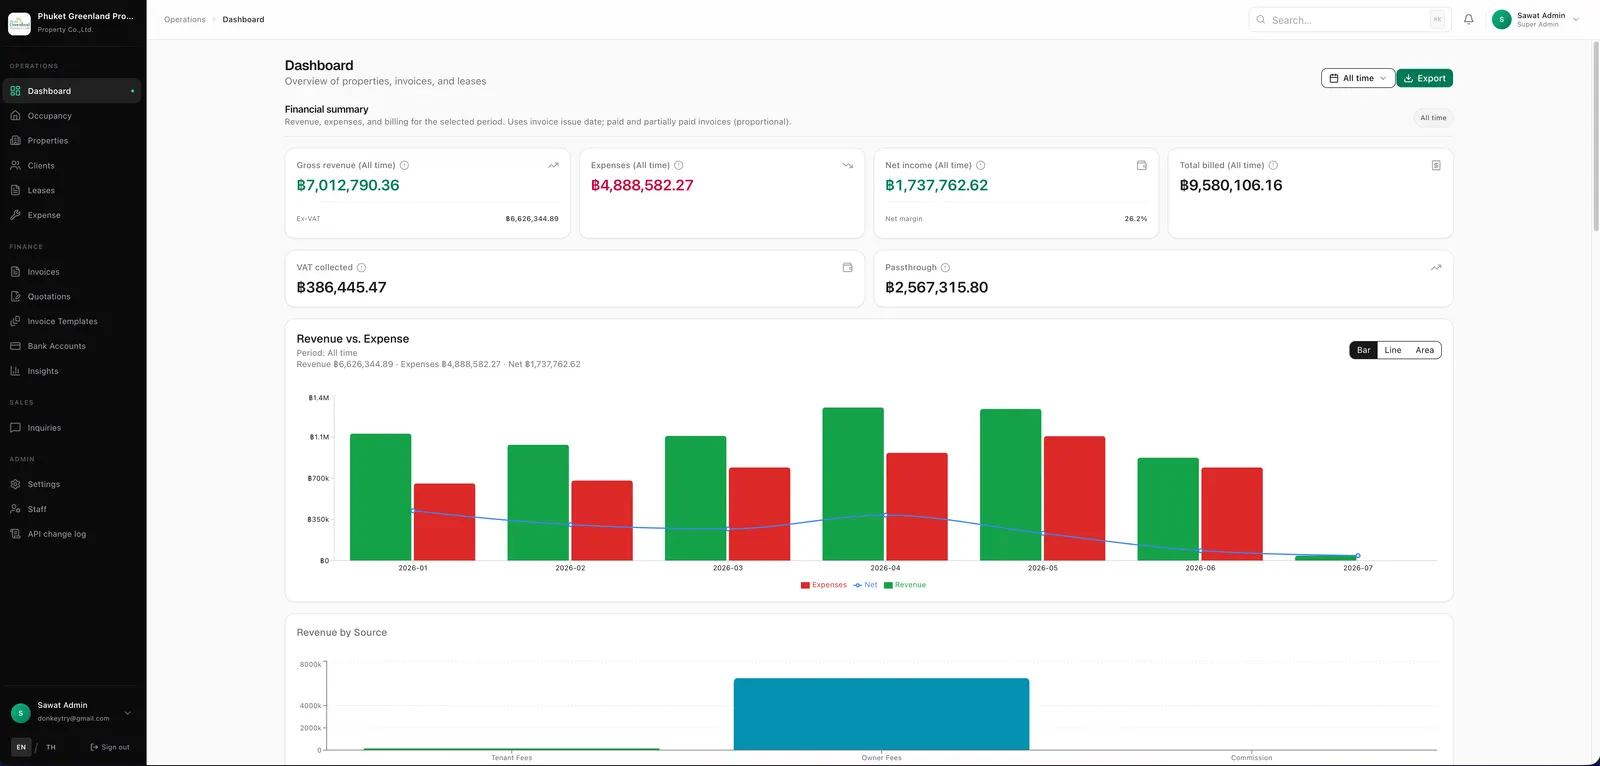
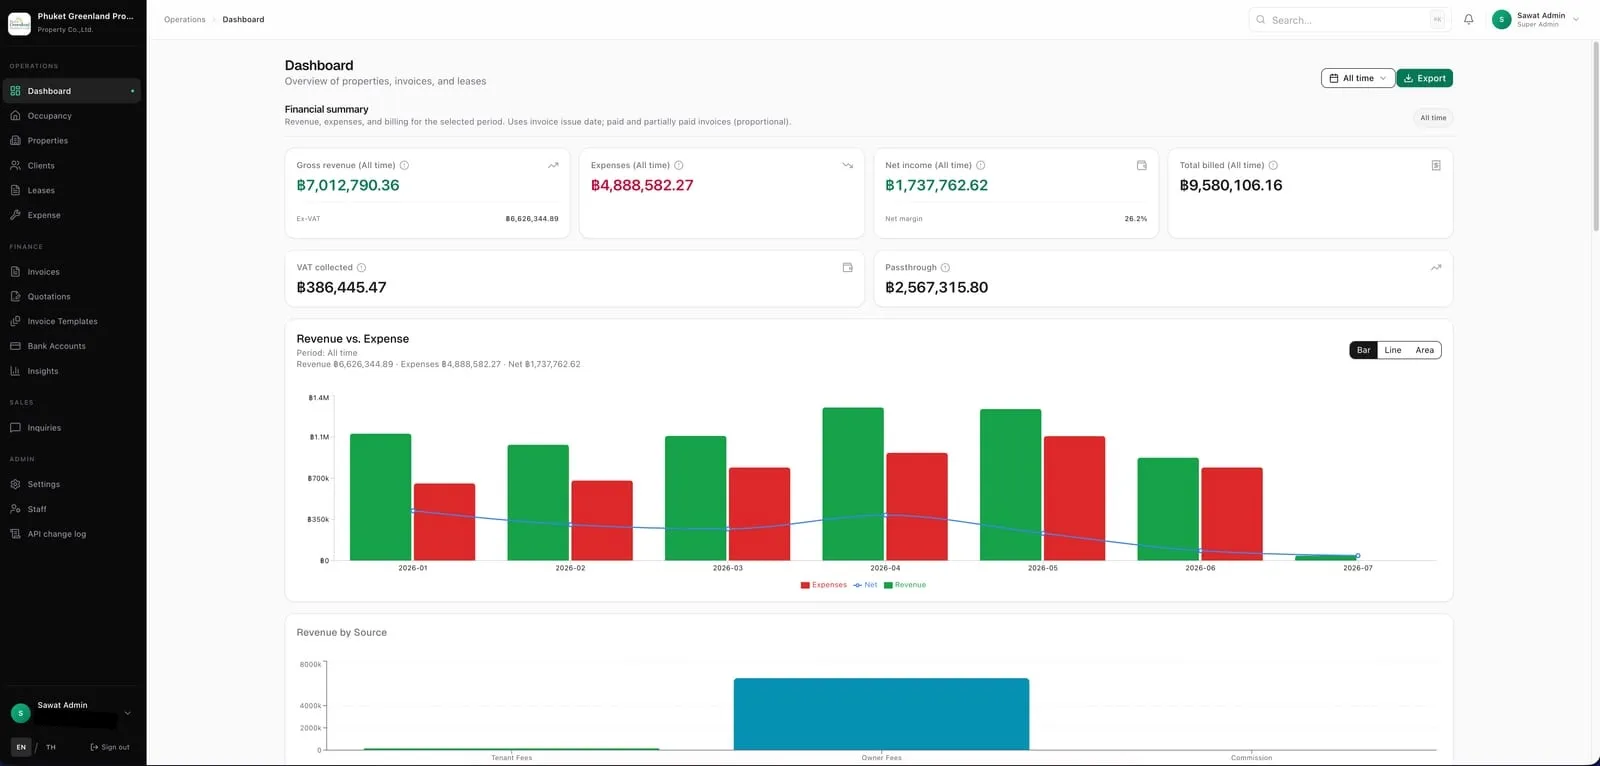
Add dual LICENSE and update Lake House dashboard media
Clarify All Rights Reserved terms for media vs code viewing-only
terms, and refresh the Lake House dashboard jpg/webp assets.

Changed region(s): [[0.375, 0.2402, 0.4375, 0.2702], [0.0312, 0.9308, 0.0625, 0.9608]]

diff --git a/README.md b/README.md
@@ -44,6 +44,17 @@ public/
   favicon.svg
 ```
 
+## License & copyright
+
+**Code and media are under different terms.** See [`LICENSE`](./LICENSE) for the full text.
+
+- **Source code** (`src/`, config files): for portfolio viewing and private reference only — not for redistribution or commercial reuse without permission.
+- **Media** (`public/media/`, résumés, and other assets): **All Rights Reserved.** Not licensed for reuse, redistribution, embedding, or training. Unauthorized use may be subject to DMCA takedown.
+
+© 2026 Sawat Wongsaroj. For licensing requests: sawatw2000@gmail.com
+
 ## Media credits
-Photos and video processed from your originals (field monitoring cabinet, solar station,
-RWDI, BCI demo, rooftop). Originals were HEIC/MOV; converted to web JPG/WebP/MP4.
+
+Photos and video processed from project originals (field monitoring, solar station,
+RWDI / Smartadata, BCI demo, rooftop, The Lake House). Converted to web JPG/WebP/MP4
+for delivery. All media remains proprietary — see License above.
